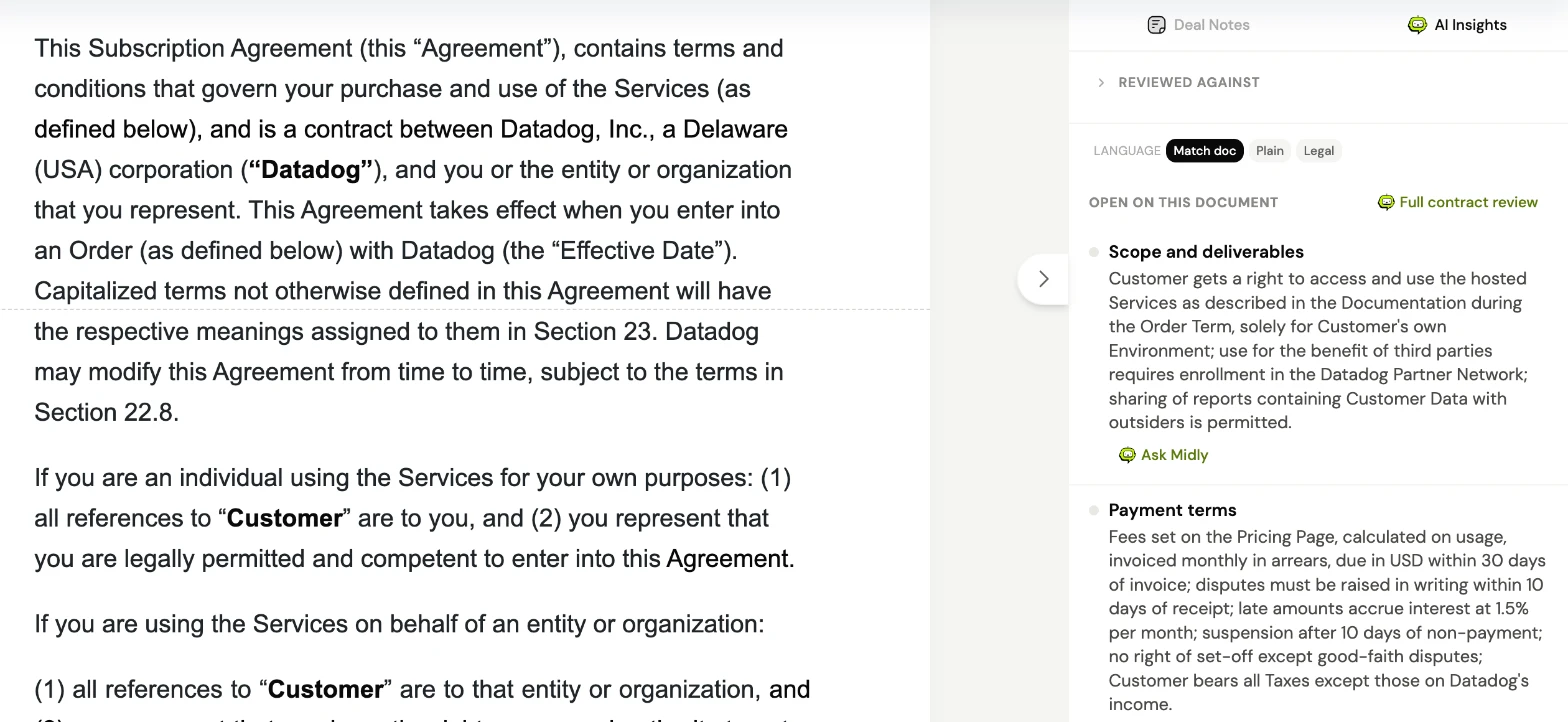
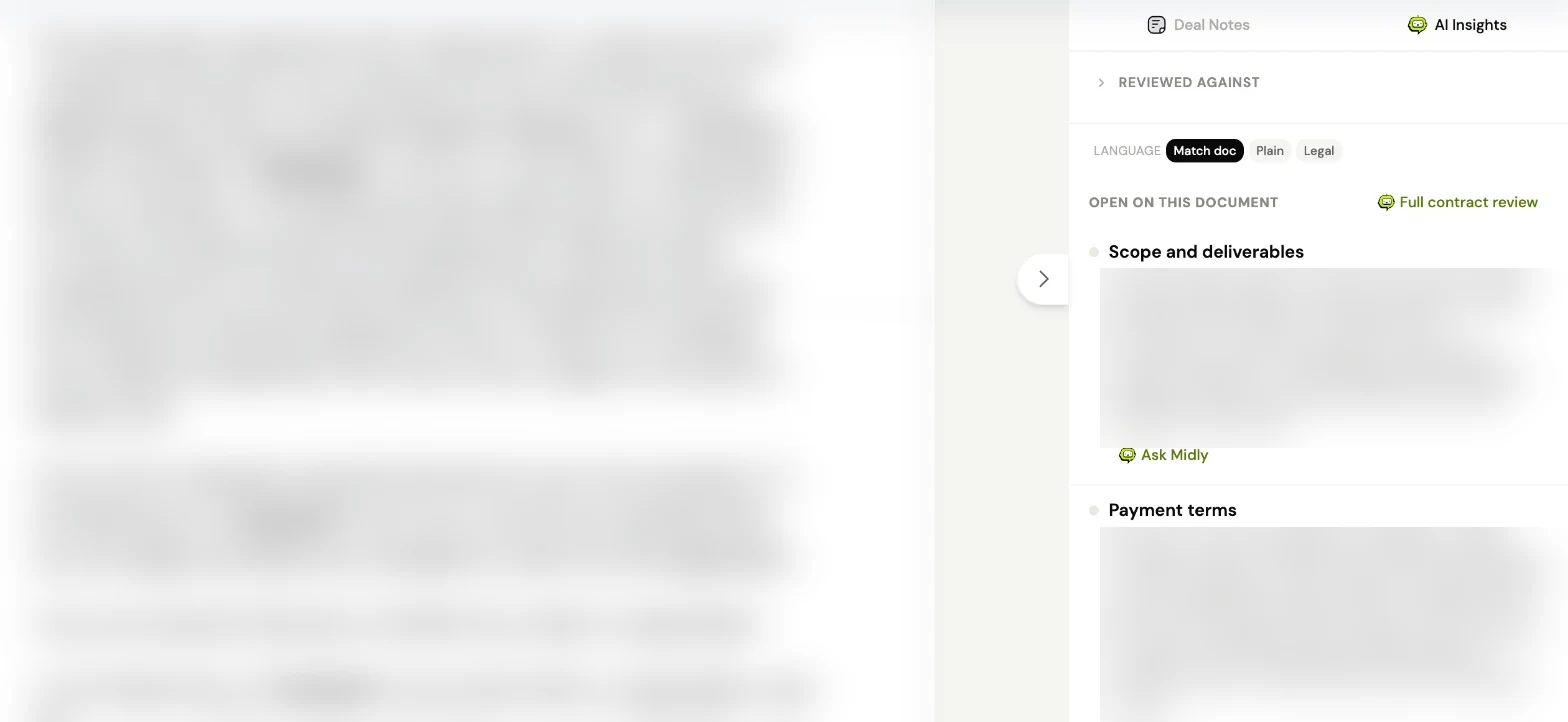
Blur the Datadog agreement out of the review screenshot
The homepage (hero and tour) and /fractional-gc showed a real Midly
review of Datadog's published Master Subscription Agreement, with
"Datadog" readable in the contract and in the AI Insights summaries,
and named in the image descriptions. It is Datadog's public online
terms, not a confidential document, but a real company's name and
contract on Midly's marketing pages reads as a relationship or an
endorsement that does not exist.

- review-findings.webp: the contract pane and the insight summaries are
  heavily blurred; the Midly interface around them (Deal Notes, AI
  Insights, the language switch, the term headings, Ask Midly) stays
  legible, so the layout and the point of the image are unchanged.
- Alt text on both pages no longer names Datadog.

The separate blog teardown of Datadog's public renewal terms is not
changed here.

Claude-Session: https://claude.ai/code/session_015vVxGYEzB4mmtEmdtRpPRM

diff --git a/index.html b/index.html
@@ -222,7 +222,7 @@
       <div class="window">
         <div class="window-bar" aria-hidden="true"><i></i><i></i><i></i><span>app.midly.ai / review</span></div>
         <img class="hero-shot" src="/brand/screenshots/review-findings.webp" width="1568" height="722" fetchpriority="high" decoding="async"
-          alt="A completed Midly review of Datadog's published Master Subscription Agreement: the contract text on the left, and on the right the AI Insights panel listing each term area, such as scope and deliverables and payment terms, with a Full contract review button and an Ask Midly link on every row.">
+          alt="A completed Midly review of a published software subscription agreement: the contract text on the left, and on the right the AI Insights panel listing each term area, such as scope and deliverables and payment terms, with a Full contract review button and an Ask Midly link on every row.">
       </div>
       <figure class="hero-inset">
         <img src="/brand/screenshots/review-which-side-crop.webp" width="980" height="600" decoding="async"
@@ -334,7 +334,7 @@
             <div class="window">
               <div class="window-bar" aria-hidden="true"><i></i><i></i><i></i><span>app.midly.ai / review</span></div>
               <img src="/brand/screenshots/review-findings.webp" width="1568" height="722" loading="lazy" decoding="async"
-                alt="Midly's AI Insights panel beside a Datadog Master Subscription Agreement, summarising scope and deliverables and payment terms, with an Ask Midly link on each row and a language switch for matching the document, plain, or legal wording.">
+                alt="Midly's AI Insights panel beside a software subscription agreement, summarising scope and deliverables and payment terms, with an Ask Midly link on each row and a language switch for matching the document, plain, or legal wording.">
             </div>
           </div>
           <div class="tour-meta">

diff --git a/fractional-gc.html b/fractional-gc.html
@@ -527,7 +527,7 @@
         <figcaption>Pick the side your client is on, then upload their paper.</figcaption>
       </figure>
       <figure class="fit-shot">
-        <img src="/brand/screenshots/review-findings.webp" width="1568" height="722" loading="lazy" decoding="async" alt="A completed Midly review of Datadog's published Master Subscription Agreement: the contract text on the left, and on the right the AI Insights panel listing each term area, such as scope and deliverables and payment terms, with a Full contract review button and an Ask Midly link on every row.">
+        <img src="/brand/screenshots/review-findings.webp" width="1568" height="722" loading="lazy" decoding="async" alt="A completed Midly review of a published software subscription agreement: the contract text on the left, and on the right the AI Insights panel listing each term area, such as scope and deliverables and payment terms, with a Full contract review button and an Ask Midly link on every row.">
         <figcaption>The review beside the contract: every term area summarised, with Ask Midly one click away.</figcaption>
       </figure>
     </div>
